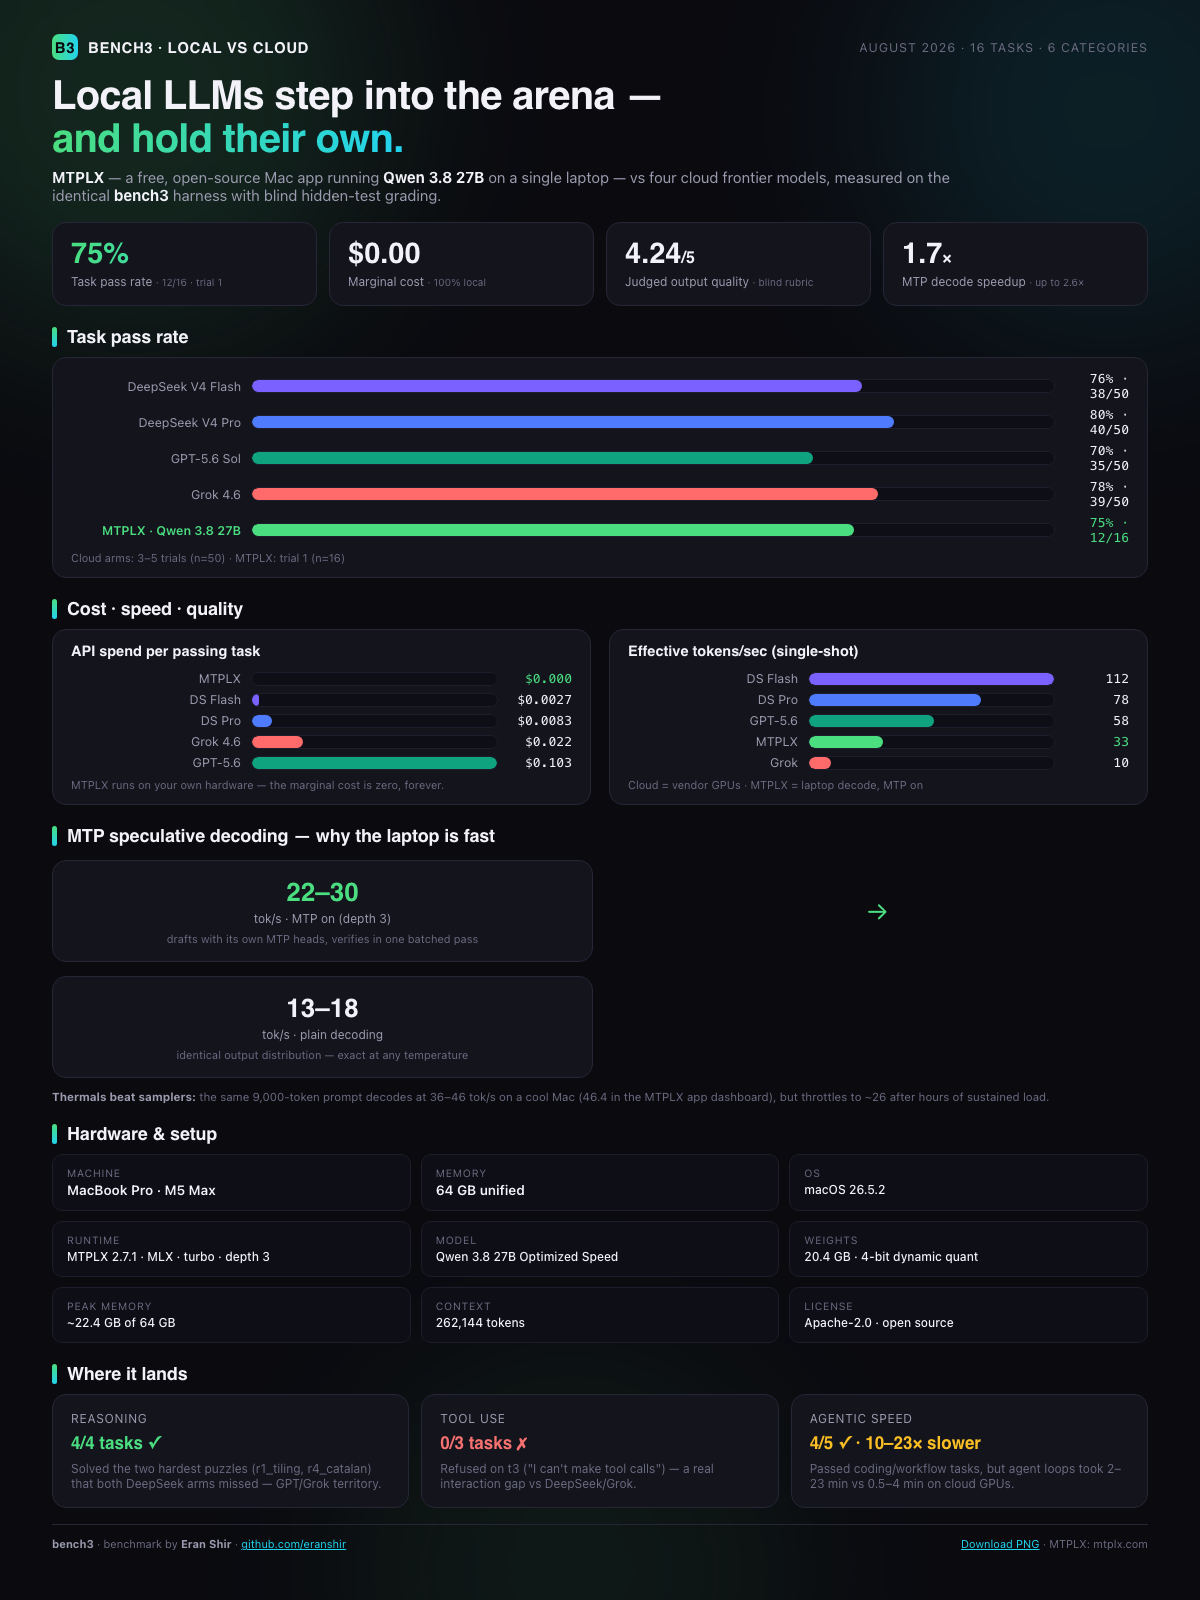
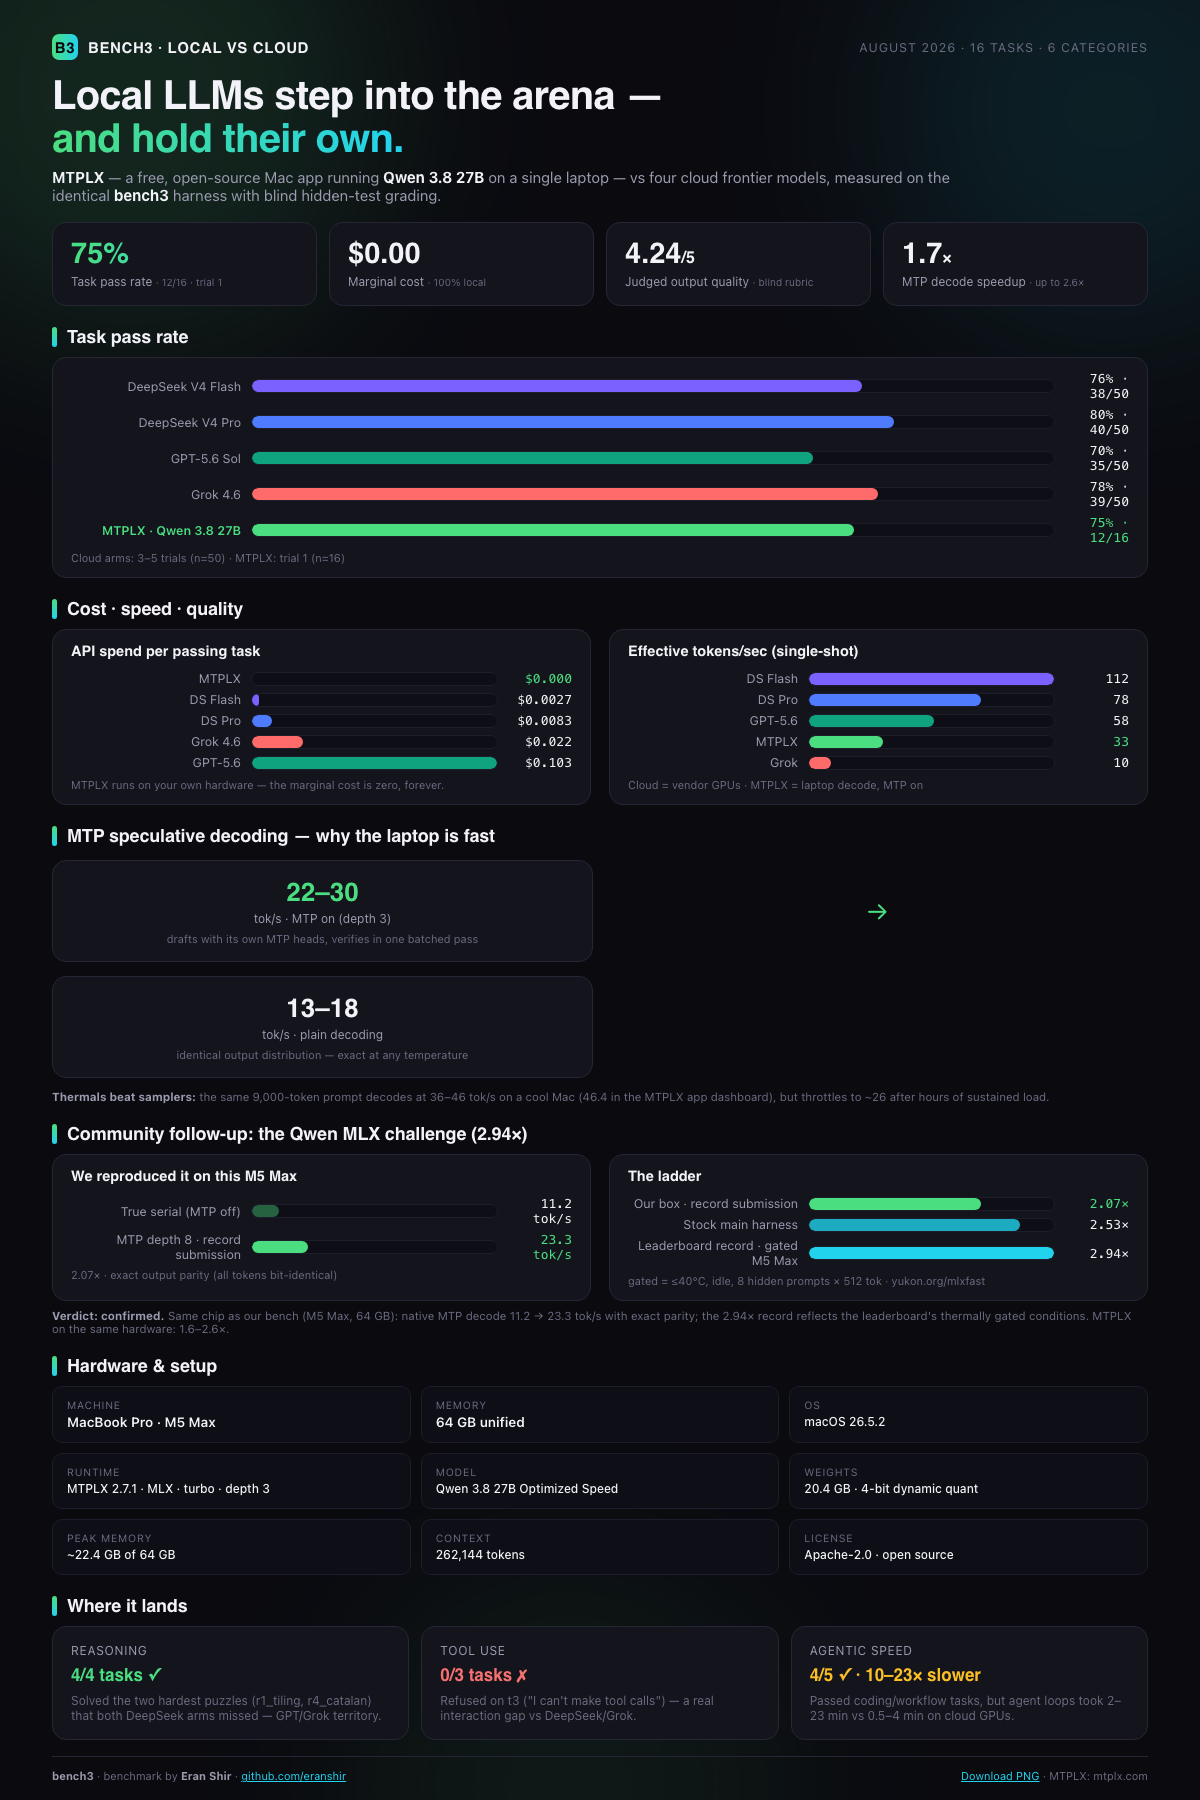
Add MLXFast challenge verification to site + infographic

diff --git a/docs/infographic.html b/docs/infographic.html
@@ -10,7 +10,7 @@
     --c-flash:#7b61ff; --c-pro:#4f7cff; --c-gpt:#10a37f; --c-grok:#ff6b6b; --c-mtplx:#4ade80;
   }
   *{margin:0;padding:0;box-sizing:border-box}
-  html,body{width:1200px;min-height:1600px;overflow-x:auto;overflow-y:auto}
+  html,body{width:1200px;min-height:1800px;overflow-x:auto;overflow-y:auto}
   body{background:var(--bg);color:var(--text);font-family:'Inter',system-ui,sans-serif;-webkit-font-smoothing:antialiased;position:relative}
   .glow{position:absolute;border-radius:50%;filter:blur(90px);pointer-events:none}
   .g1{width:500px;height:500px;background:rgba(74,222,128,.13);top:-160px;left:-120px}
@@ -149,6 +149,28 @@
     <div style="color:var(--faint);font-size:11.5px;margin-top:12px">
       <b style="color:var(--muted)">Thermals beat samplers:</b> the same 9,000-token prompt decodes at 36–46 tok/s on a cool Mac
       (46.4 in the MTPLX app dashboard), but throttles to ~26 after hours of sustained load.
+    </div>
+
+    <h2>Community follow-up: the Qwen MLX challenge (2.94×)</h2>
+    <div class="grid2">
+      <div class="panel">
+        <h3>We reproduced it on this M5 Max</h3>
+        <div class="bar-row"><span class="lbl">True serial (MTP off)</span><div class="bar-track"><div class="bar-fill" style="width:11%;background:var(--c-mtplx);opacity:.4"></div></div><span class="val">11.2 tok/s</span></div>
+        <div class="bar-row"><span class="lbl">MTP depth 8 · record submission</span><div class="bar-track"><div class="bar-fill" style="width:23%;background:var(--c-mtplx)"></div></div><span class="val" style="color:var(--accent)">23.3 tok/s</span></div>
+        <div style="color:var(--faint);font-size:11px;margin-top:6px">2.07× · exact output parity (all tokens bit-identical)</div>
+      </div>
+      <div class="panel">
+        <h3>The ladder</h3>
+        <div class="bar-row"><span class="lbl">Our box · record submission</span><div class="bar-track"><div class="bar-fill" style="width:70%;background:var(--c-mtplx)"></div></div><span class="val" style="color:var(--accent)">2.07×</span></div>
+        <div class="bar-row"><span class="lbl">Stock main harness</span><div class="bar-track"><div class="bar-fill" style="width:86%;background:var(--accent2);opacity:.8"></div></div><span class="val">2.53×</span></div>
+        <div class="bar-row"><span class="lbl">Leaderboard record · gated M5 Max</span><div class="bar-track"><div class="bar-fill" style="width:100%;background:var(--accent2)"></div></div><span class="val">2.94×</span></div>
+        <div style="color:var(--faint);font-size:11px;margin-top:6px">gated = ≤40°C, idle, 8 hidden prompts × 512 tok · yukon.org/mlxfast</div>
+      </div>
+    </div>
+    <div style="color:var(--faint);font-size:11.5px;margin-top:8px">
+      <b style="color:var(--muted)">Verdict: confirmed.</b> Same chip as our bench (M5 Max, 64 GB): native MTP decode
+      11.2 → 23.3 tok/s with exact parity; the 2.94× record reflects the leaderboard's thermally gated conditions.
+      MTPLX on the same hardware: 1.6–2.6×.
     </div>
 
     <h2>Hardware &amp; setup</h2>

diff --git a/docs/app.js b/docs/app.js
@@ -146,6 +146,45 @@
     $("#cost-chart").appendChild(wrap);
   }
 
+  /* ---------- mlxfast challenge ---------- */
+  function renderMlxfast(){
+    const m = BENCH.mlxfast;
+    const wrap = el("div", "cat-chart reveal");
+    const rows = el("div", "cat-rows");
+    const max = 2.95;
+    m.legs.forEach(leg => {
+      const row = el("div", "cat-row");
+      const bar = el("div", "bar"); const fill = el("i");
+      fill.style.background = leg.depth === 8 ? "var(--gradient, var(--accent))" : "var(--accent)";
+      fill.style.background = leg.depth === 8 ? "linear-gradient(90deg,#4ade80,#22d3ee)" : "var(--accent)";
+      fill.style.opacity = leg.depth === 0 ? 0.35 : 0.85;
+      bar.appendChild(fill);
+      row.appendChild(el("span", "lbl", esc(leg.label)));
+      row.appendChild(bar);
+      row.appendChild(el("span", "pct", leg.speedup.toFixed(2)+"× · "+leg.tps+" tok/s"));
+      rows.appendChild(row);
+      requestAnimationFrame(()=>requestAnimationFrame(()=>{ fill.style.width = (100*leg.speedup/max)+"%"; }));
+    });
+    // reference + stock + mtplx mini-rows
+    [
+      ["Stock main (baseline harness)", m.stock_speedup],
+      ["Leaderboard record · gated M5 Max", m.reference.speedup],
+    ].forEach(([label, v]) => {
+      const row = el("div", "cat-row");
+      const bar = el("div", "bar"); const fill = el("i"); fill.style.background = "var(--accent2)"; fill.style.opacity = 0.7;
+      bar.appendChild(fill);
+      row.appendChild(el("span", "lbl", esc(label)));
+      row.appendChild(bar);
+      row.appendChild(el("span", "pct", v.toFixed(2)+"×"));
+      rows.appendChild(row);
+      requestAnimationFrame(()=>requestAnimationFrame(()=>{ fill.style.width = (100*v/max)+"%"; }));
+    });
+    wrap.appendChild(el("div", "cat-title", '<h4>Decode speedup vs true serial (MTP off)</h4><span>our M5 Max · '+esc(m.our_machine)+'</span>'));
+    wrap.appendChild(rows);
+    const grid = document.querySelector("#mlxfast-grid");
+    if (grid) grid.appendChild(wrap);
+  }
+
   /* ---------- reveal on scroll ---------- */
   function reveal(){
     const els = document.querySelectorAll(".reveal");
@@ -158,5 +197,5 @@
     setTimeout(() => els.forEach(n => n.classList.add("in")), 2500);
   }
 
-  renderCards(); renderCats(); renderTasks(); renderTps(); renderThermal(); renderCost(); reveal();
+  renderCards(); renderCats(); renderTasks(); renderTps(); renderThermal(); renderMlxfast(); renderCost(); reveal();
 })();

diff --git a/docs/index.html b/docs/index.html
@@ -20,6 +20,7 @@
       <a href="#overview">Overview</a>
       <a href="#results">Results</a>
       <a href="#tps">Tokens/s</a>
+      <a href="#mlxfast">MLXFast</a>
       <a href="#cost">Cost</a>
       <a href="#setup">Setup</a>
       <a href="#method">Method</a>
@@ -128,6 +129,28 @@
         <p class="small">A cool Mac decodes at 36–46 tok/s; after hours of sustained load it throttles to ~26.
         The app dashboard's 46.4 tok/s was a fresh, cool run.</p>
       </div>
+    </div>
+  </div>
+</section>
+
+<section id="mlxfast" class="sec">
+  <div class="wrap">
+    <div class="section-head">
+      <div class="eyebrow"><span class="dot"></span>Follow-up · 17 Aug 2026</div>
+      <h2>The Qwen MLX challenge: a community <span class="grad">2.94×</span></h2>
+      <p class="sub">After our benchmark, an open leaderboard (<a href="https://www.yukon.org/mlxfast" target="_blank">yukon.org/mlxfast</a>) claimed Qwen 3.8 27B runs
+      <strong>193.4% faster</strong> on Apple Silicon via community-tuned native MTP kernels. We fetched the record submission
+      (<a href="https://github.com/Layr-Labs/qwen-3.8-mtp-challenge" target="_blank">Layr-Labs/qwen-3.8-mtp-challenge</a>), built it, and
+      reproduced the measurement on this same M5 Max — <strong>2.07× decode speedup with exact output parity</strong>
+      (all tokens bit-identical to serial). The leaderboard's 2.94× is measured on a thermally gated, idle box with 8 hidden
+      prompts; our machine was hot and GPU-contended during the run.</p>
+    </div>
+    <div id="mlxfast-grid"></div>
+    <div class="callout">
+      <div class="callout-icon">✅</div>
+      <div><strong>Verdict: confirmed.</strong> Native MTP decoding on Qwen 3.8 27B delivers a ~2× decode speedup on our hardware
+      (11.2 → 23.3 tok/s, parity exact) — and the mechanism scales to ~2.9× under the leaderboard's gated conditions.
+      Full methodology: <a href="https://github.com/eranshir/bench3/blob/main/bench3/MLXFAST_CONFIRMATION.md" target="_blank">MLXFAST_CONFIRMATION.md</a>.</div>
     </div>
   </div>
 </section>

diff --git a/docs/data.js b/docs/data.js
@@ -1165,5 +1165,21 @@ const BENCH = {
    28.5,
    34.0
   ]
- }
+ },
+  "mlxfast": {
+    "claim_speedup": 2.94,
+    "claim_url": "https://www.yukon.org/mlxfast",
+    "repo_url": "https://github.com/Layr-Labs/qwen-3.8-mtp-challenge",
+    "our_machine": "MacBook Pro M5 Max · 64 GB · hot + GPU in use by host",
+    "legs": [
+      { "depth": 0, "label": "True serial (MTP off)", "tps": 11.2, "speedup": 1.0, "accept": null },
+      { "depth": 2, "label": "MTP depth 2", "tps": 19.1, "speedup": 1.70, "accept": 1.0 },
+      { "depth": 4, "label": "MTP depth 4", "tps": 21.1, "speedup": 1.88, "accept": 0.97 },
+      { "depth": 8, "label": "MTP depth 8 · record submission", "tps": 23.3, "speedup": 2.07, "accept": 0.97 }
+    ],
+    "parity": true,
+    "stock_speedup": 2.53,
+    "reference": { "serial_tps": 26.3, "mtp_tps": 77.7, "speedup": 2.95, "note": "thermally gated (≤40°C) · idle 128 GB M5 Max · 8 hidden prompts × 512 tok" },
+    "mtplx_ref": "MTPLX on the same chip measured 1.6–2.6× decode speedup"
+  }
 };
